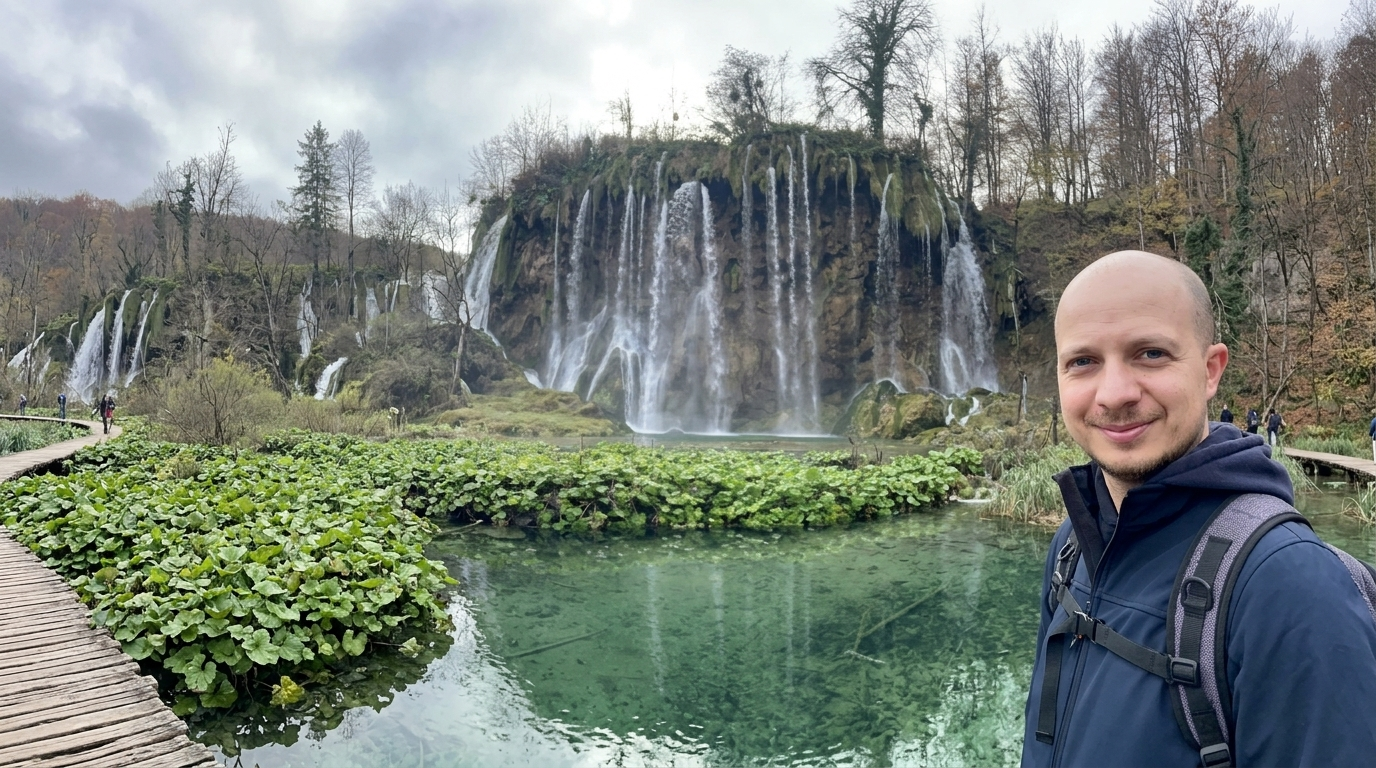
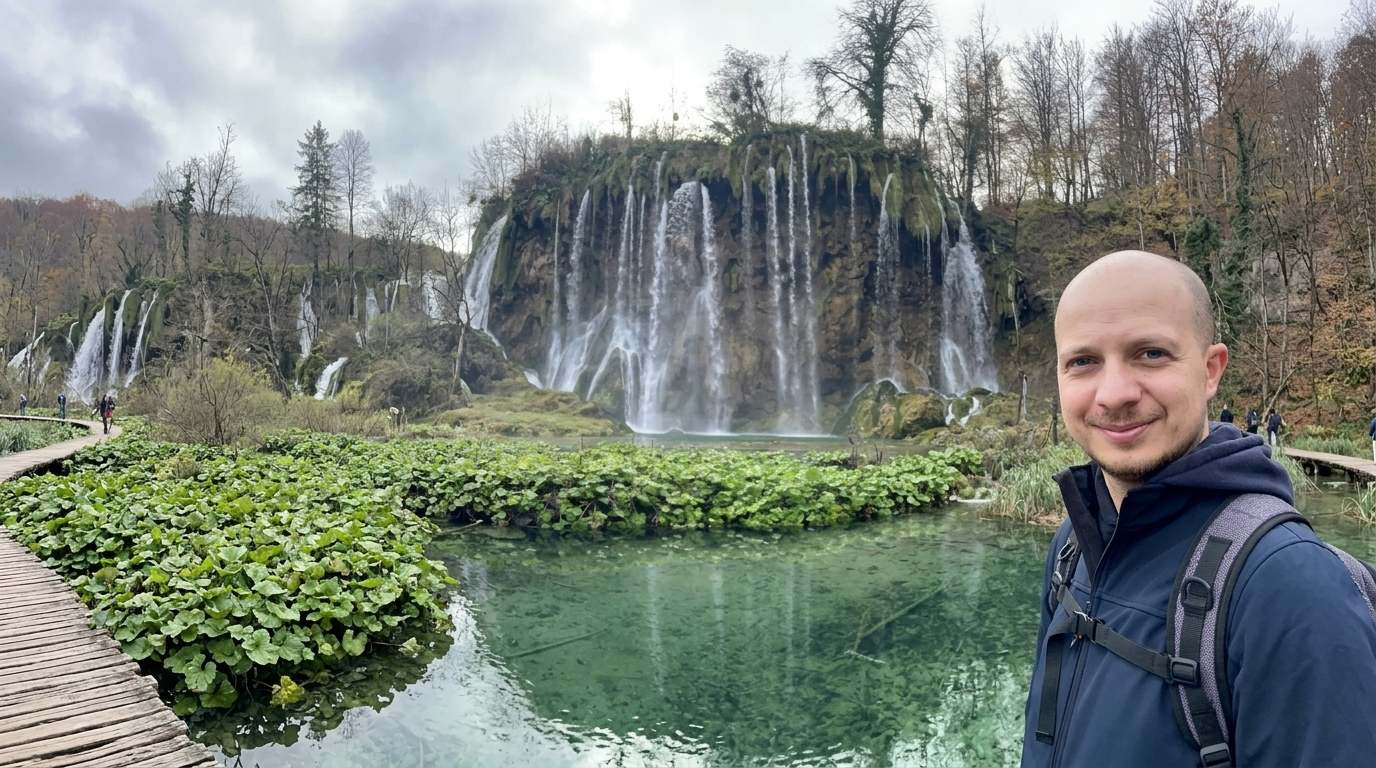
Readable intro text on the photo; lighter background image
- Deeper, more even shading behind the intro text and a soft text shadow
- Lighter blue for the highlighted name on the photo
- Re-save BackgroundWide.jpg at 184 KB (was 910 KB), same size and name
- Bump style.css/common.js version to 15

diff --git a/style.css b/style.css
@@ -214,14 +214,15 @@ button{ font: inherit; color: inherit; }
   content: "";
   position: absolute;
   inset: 0;
-  background: linear-gradient(90deg, rgba(12,14,20,0.86) 0%, rgba(12,14,20,0.66) 45%, rgba(12,14,20,0.2) 100%);
+  /* Deep and even behind the text column, then fading out towards the right */
+  background: linear-gradient(90deg, rgba(10,12,18,0.9) 0%, rgba(10,12,18,0.84) 38%, rgba(10,12,18,0.55) 60%, rgba(10,12,18,0.15) 100%);
 }
 .hero-content{ position: relative; width: 100%; }
 .hero-content > *{ max-width: 640px; }
 @media (max-width: 760px){
   .hero-photo{ min-height: 0; padding: 64px 0 72px; }
   .hero-bg img{ object-position: 75% 40%; }
-  .hero-bg::after{ background: linear-gradient(180deg, rgba(12,14,20,0.62) 0%, rgba(12,14,20,0.86) 100%); }
+  .hero-bg::after{ background: linear-gradient(180deg, rgba(10,12,18,0.74) 0%, rgba(10,12,18,0.9) 100%); }
 }
 .kicker{
   display: inline-flex;
@@ -280,11 +281,14 @@ button{ font: inherit; color: inherit; }
 .hero-facts strong{ color: var(--ink); font-weight: 600; }
 
 /* Light text on the photo, the same in light and dark mode */
-.hero-photo .kicker{ color: rgba(255,255,255,0.82); }
+/* A soft shadow lifts the letters off bright spots in the photo */
+.hero-photo .hero-content{ text-shadow: 0 1px 2px rgba(0,0,0,0.35), 0 2px 16px rgba(0,0,0,0.3); }
+.hero-photo .btn{ text-shadow: none; }
+.hero-photo .kicker{ color: rgba(255,255,255,0.86); }
 .hero-photo .hero-title{ color: #fff; }
-.hero-photo .hero-title .accent{ color: #aab6ff; }
-.hero-photo .hero-intro{ color: rgba(255,255,255,0.88); }
-.hero-photo .hero-note{ color: rgba(255,255,255,0.68); }
+.hero-photo .hero-title .accent{ color: #c3ccff; }
+.hero-photo .hero-intro{ color: rgba(255,255,255,0.92); }
+.hero-photo .hero-note{ color: rgba(255,255,255,0.74); }
 .hero-photo .hero-facts, .hero-photo .hero-facts strong{ color: #fff; }
 .hero-photo .btn:not(.primary){
   background: rgba(255,255,255,0.08);

diff --git a/index.html b/index.html
@@ -25,7 +25,7 @@
   <link rel="preconnect" href="https://fonts.gstatic.com" crossorigin />
   <link href="https://fonts.googleapis.com/css2?family=Fraunces:opsz,wght@9..144,500;9..144,600&family=Inter:wght@400;500;600;700&display=swap" rel="stylesheet" />
   <!-- Bump ?v= whenever style.css or common.js changes, so browsers don't mix old and new files -->
-  <link rel="stylesheet" href="style.css?v=14" />
+  <link rel="stylesheet" href="style.css?v=15" />
 </head>
 
 <body>
@@ -132,7 +132,7 @@
     <div class="container">Copyright © <span id="year"></span> <span data-field="name"></span>. All rights reserved.</div>
   </footer>
 
-  <script src="common.js?v=14"></script>
+  <script src="common.js?v=15"></script>
   <script>
     (function(){
       const { el, icon, ICONS, asset, list, statFor, withJobLogos, caseUrl, caseMeta, logoTile, load, fillFields, contactButtons, showError } = window.Site;

diff --git a/case.html b/case.html
@@ -23,7 +23,7 @@
   <link rel="preconnect" href="https://fonts.gstatic.com" crossorigin />
   <link href="https://fonts.googleapis.com/css2?family=Fraunces:opsz,wght@9..144,500;9..144,600&family=Inter:wght@400;500;600;700&display=swap" rel="stylesheet" />
   <!-- Bump ?v= whenever style.css or common.js changes, so browsers don't mix old and new files -->
-  <link rel="stylesheet" href="style.css?v=14" />
+  <link rel="stylesheet" href="style.css?v=15" />
 </head>
 
 <body>
@@ -66,7 +66,7 @@
     <div class="container">Copyright © <span id="year"></span> <span data-field="name"></span>. All rights reserved.</div>
   </footer>
 
-  <script src="common.js?v=14"></script>
+  <script src="common.js?v=15"></script>
   <script>
     (function(){
       const { el, icon, ICONS, list, statFor, withJobLogos, caseId, caseUrl, caseMeta, load, fillFields, contactButtons, showError, asset } = window.Site;
